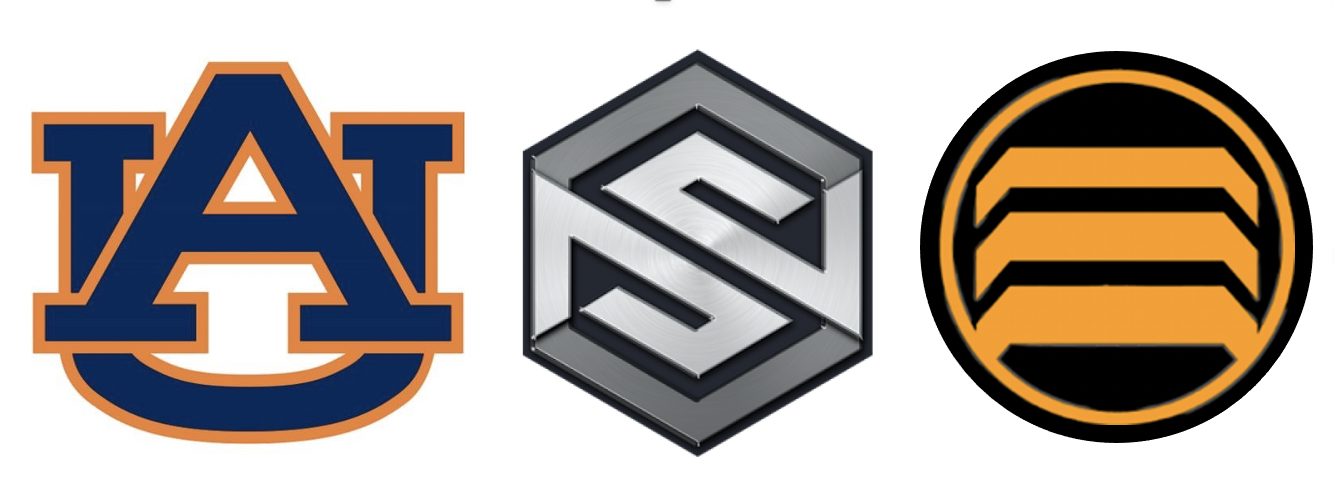
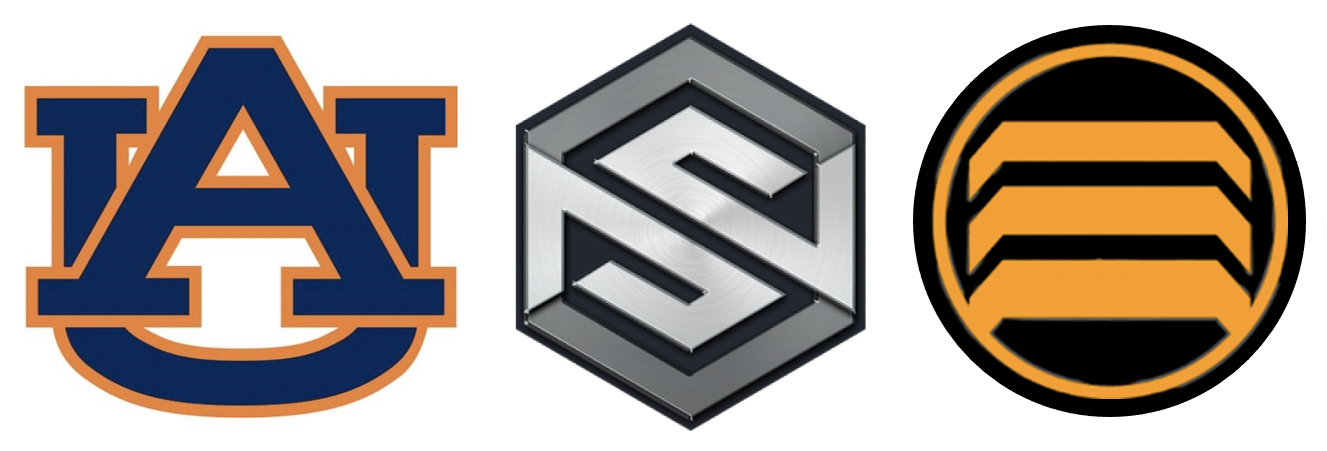
tweak about image sizes

Changed region(s): [[0.0, 0.031, 0.9887, 0.9623]]

diff --git a/_pages/about.md b/_pages/about.md
@@ -3,7 +3,7 @@ layout: page
 title: About Me
 permalink: /about/
 ---
-<img align="right" height="150" src="{{site.baseurl}}/images/hello.png">
+<img align="right" height="200" src="{{site.baseurl}}/images/hello.png">
 
 Dan O'Leary is Antisimplistic, a second career PhD student and Graduate Assistant in the Department of Industrial and Systems Engineering  at Auburn University. After 23 years in the games industry as the co-founder of the independent game development studio [n-Space](https://en.wikipedia.org/wiki/N-Space) it was time for a change. My academic and research interests are... broad.
 
@@ -19,4 +19,4 @@ I teach undergraduate courses covering innovation, entrepreneurship, product dev
 
 ---
 
-<img align="center" width="600" src="{{site.baseurl}}/images/au-nsi-gsi.png">
+<img align="center" width="500" src="{{site.baseurl}}/images/au-nsi-gsi.png">
